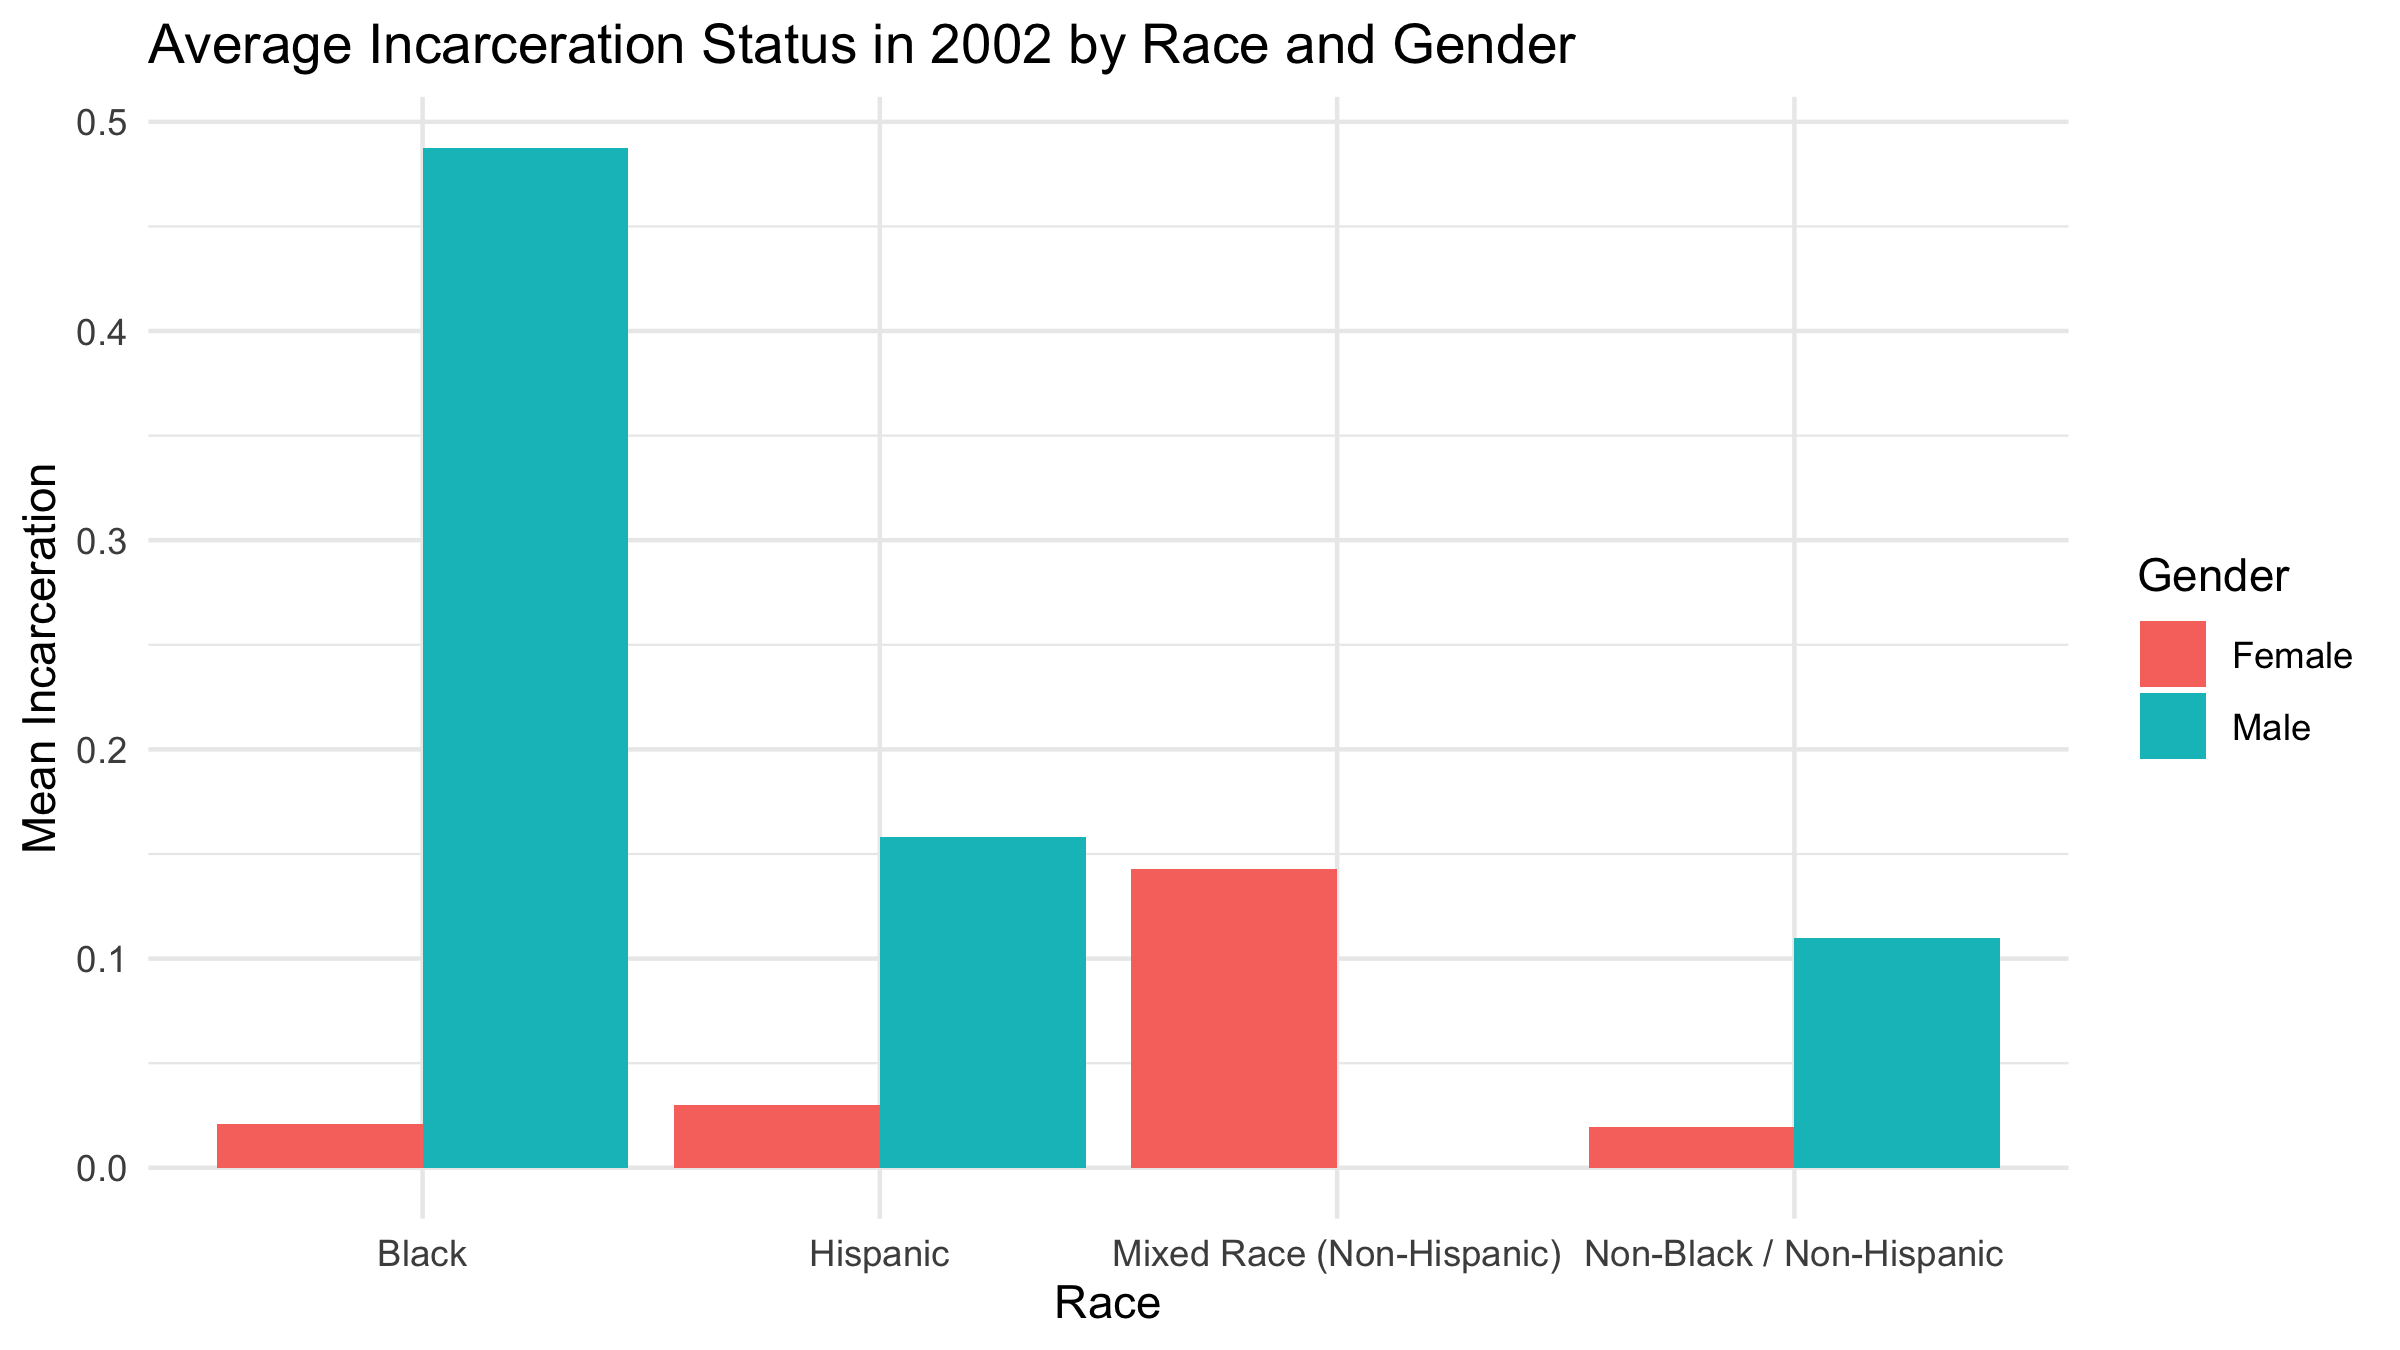
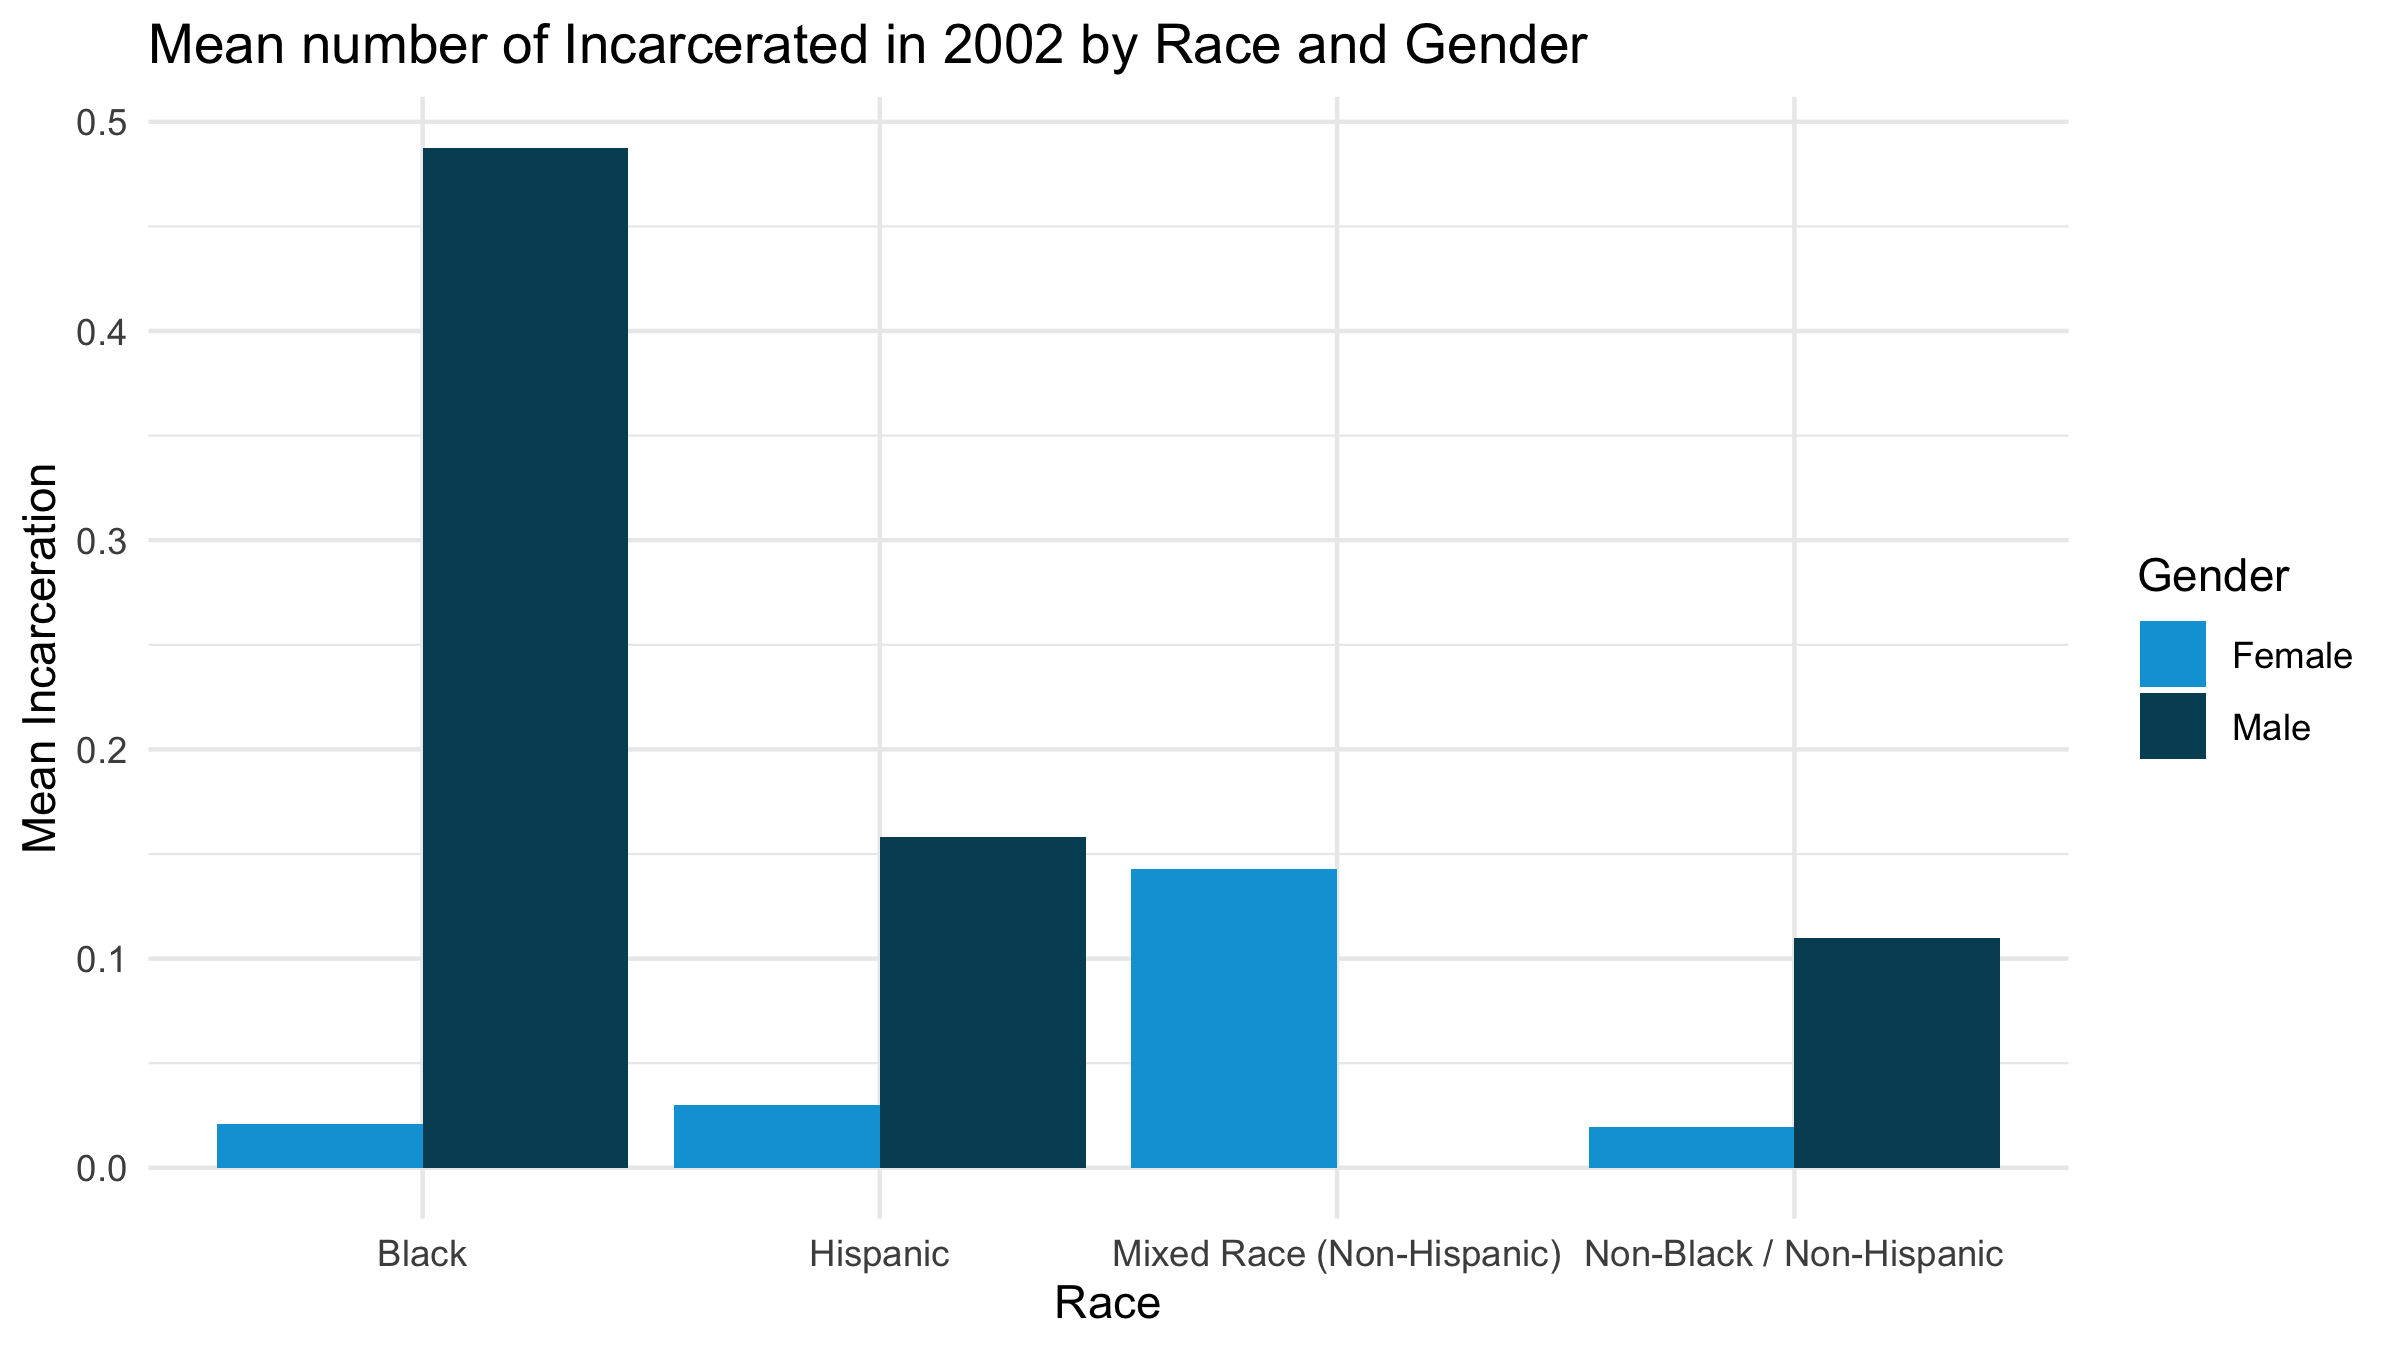
changed title name

diff --git a/tables/incarc_by_racegender.tex b/tables/incarc_by_racegender.tex
@@ -1,6 +1,6 @@
 \begin{table}[H]
 
-\caption{\label{tab:tab:summarystats}Average Incarceration Status in 2002 by Race and Gender}
+\caption{\label{tab:tab:summarystats}Mean number of Incarcerated in 2002 by Race and Gender}
 \centering
 \begin{tabular}[t]{lrrrr}
 \toprule
